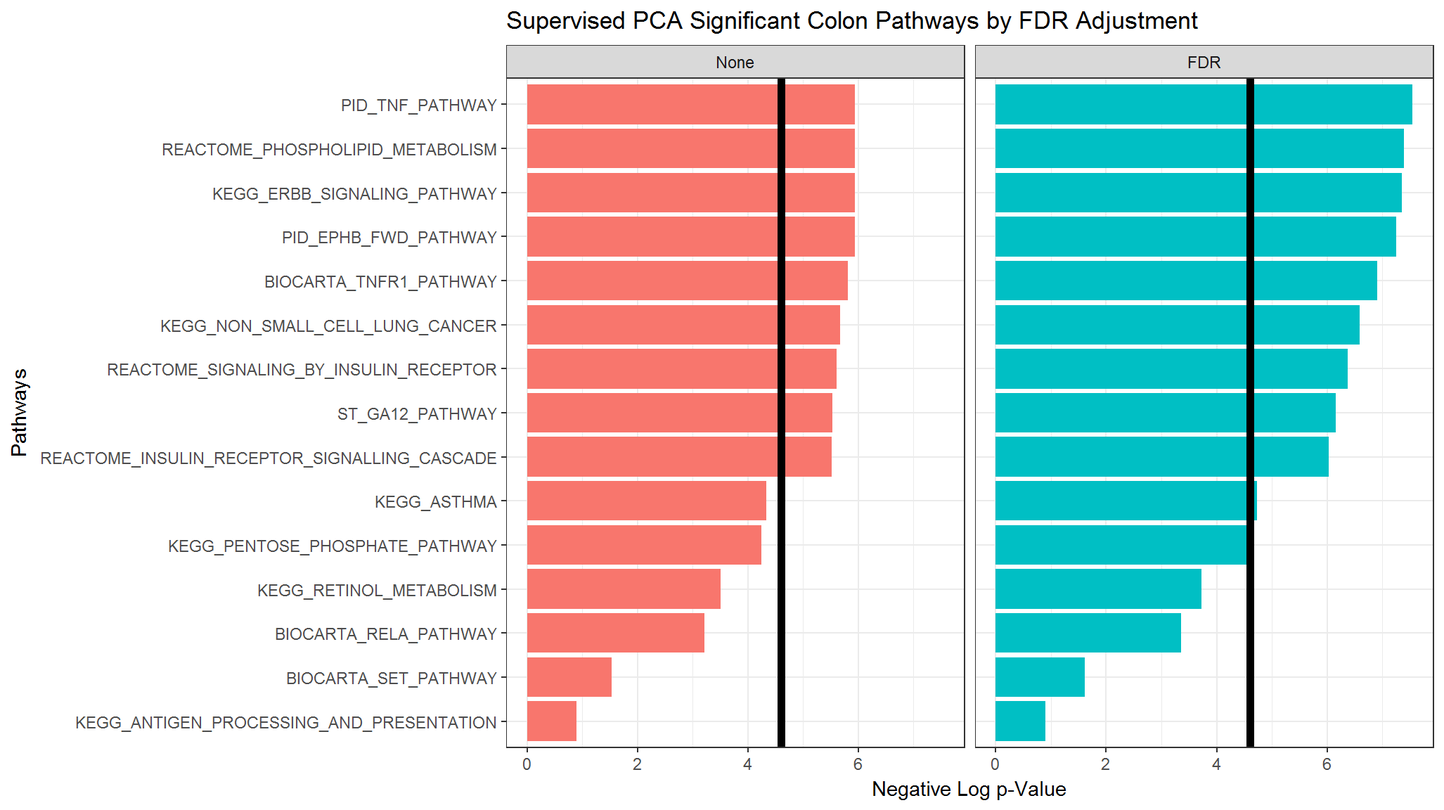
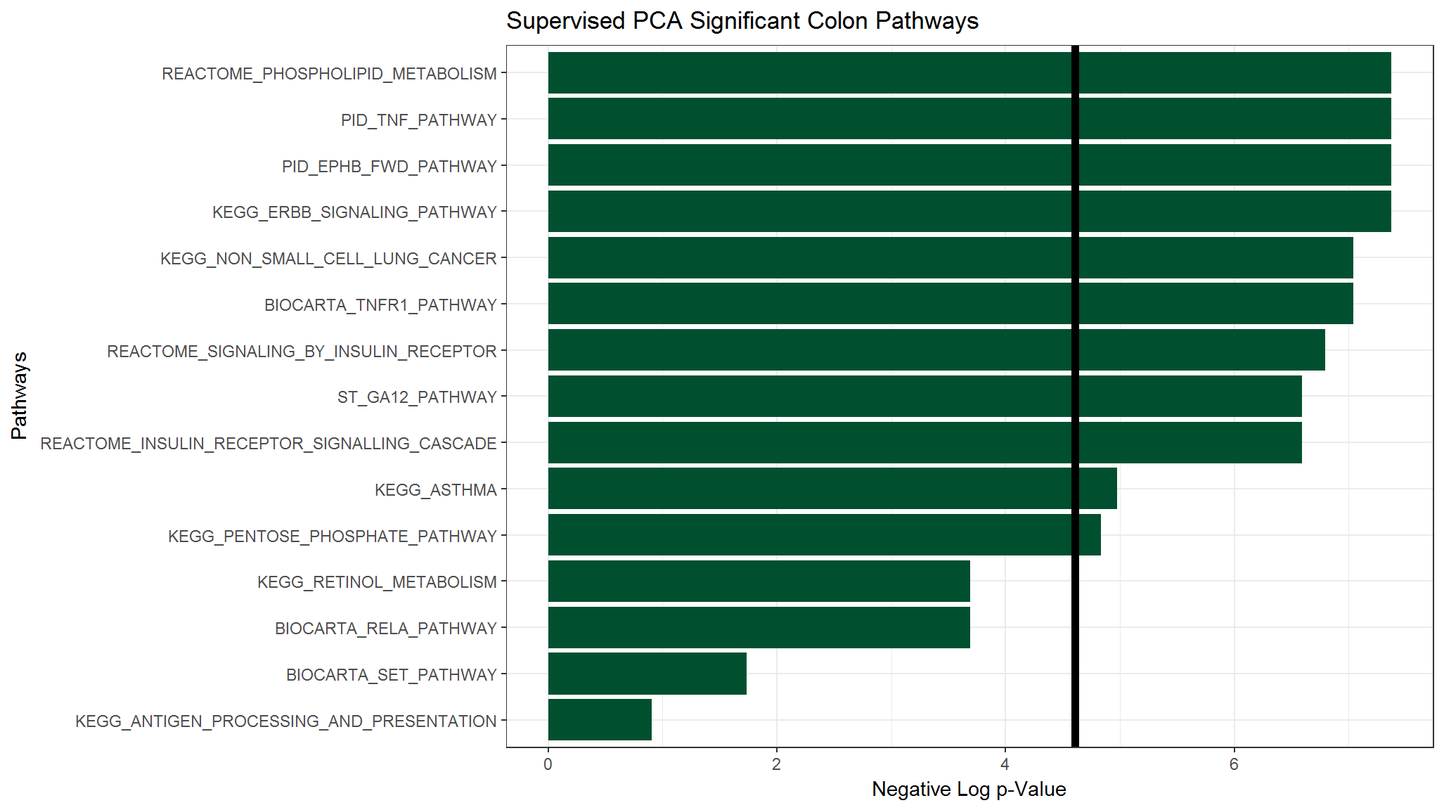
Lily edits to chapter 1.

diff --git a/docs/articles/C1-Quickstart_Guide.html b/docs/articles/C1-Quickstart_Guide.html
@@ -89,7 +89,7 @@
       <h1>Chapter 1 - Quickstart Guide</h1>
                         <h4 class="author">Gabriel Odom</h4>
             
-            <h4 class="date">2018-04-27</h4>
+            <h4 class="date">2018-04-30</h4>
       
       <small>Source: <a href="https://github.com/gabrielodom/pathwayPCA/blob/master/vignettes/C1-Quickstart_Guide.Rmd"><code>vignettes/C1-Quickstart_Guide.Rmd</code></a></small>
       <div class="hidden name"><code>C1-Quickstart_Guide.Rmd</code></div>
@@ -101,7 +101,7 @@
 <div id="overview" class="section level1">
 <h1 class="hasAnchor">
 <a href="#overview" class="anchor"></a>1. Overview</h1>
-<p>This guide will serve as a brief introduction to pathway significance testing with the <code>pathwayPCA</code> package. We will discuss four steps. For detailed discussion of these four steps, see the appropriate vignettes. This vignette is the introduction and overview chapter in the “Pathway Significance Testing with <code>pathwayPCA</code>” workflow.</p>
+<p>This guide will serve as a brief introduction to pathway significance testing with the <code>pathwayPCA</code> package. We will discuss four steps. For detailed discussion of these four steps, see the appropriate vignettes. This vignette provides an introduction and overview for the <code>pathwayPCA</code> package.</p>
 <ol start="0" style="list-style-type: decimal">
 <li>Download Packages</li>
 <li>Import Data (<a href="https://gabrielodom.github.io/pathwayPCA/articles/C2-Importing_Data.html"><em>vignette</em></a>)</li>
@@ -109,7 +109,7 @@
 <li>Test Pathway Significance (<a href="https://gabrielodom.github.io/pathwayPCA/articles/C4-Methods_Walkthrough.html"><em>vignette</em></a>)</li>
 <li>Inspect Results</li>
 </ol>
-<p>Before we get started, you need the <code>pathwayPCA</code> package to run your analysis. Because we are currently in the development phase for Bioconductor, you can install this package from GitHub. In order to install a package from GitHub, you will need the <code>devtools::</code> package (<a href="https://github.com/r-lib/devtools" class="uri">https://github.com/r-lib/devtools</a>) and either <a href="https://cran.r-project.org/bin/windows/Rtools/">Rtools</a> (for Windows) or <a href="https://developer.apple.com/xcode/">Xcode</a> (for Mac). Then you can install the development version of the <a href="https://github.com/gabrielodom/pathwayPCA"><code>pathwayPCA</code> package</a> from <a href="https://github.com/">GitHub</a>:</p>
+<p>Before we get started, you need the <code>pathwayPCA</code> package to run your analysis. Because we are currently in the development phase for this package, you can install the package from GitHub. In order to install a package from GitHub, you will need the <code>devtools::</code> package (<a href="https://github.com/r-lib/devtools" class="uri">https://github.com/r-lib/devtools</a>) and either <a href="https://cran.r-project.org/bin/windows/Rtools/">Rtools</a> (for Windows) or <a href="https://developer.apple.com/xcode/">Xcode</a> (for Mac). Then you can install the development version of the <a href="https://github.com/gabrielodom/pathwayPCA"><code>pathwayPCA</code> package</a> from <a href="https://github.com/">GitHub</a>:</p>
 <pre><code><a href="http://www.rdocumentation.org/packages/devtools/topics/install_github">devtools::install_github("gabrielodom/pathwayPCA")</a></code></pre>
 <p>Also, if you want your analysis to be performed with parallel computing, you will need a package to help you. We recommend the <code>parallel</code> package (it comes with <code>R</code> automatically). We also recommend the <code>tidyverse</code> package to help you run some of the examples in these vignettes (while the <code>tidyverse</code> package suite is required for many of the examples in the vignettes, it is not required for any of the functions in this package).</p>
 <pre><code>install.packages("tidyverse")</code></pre>
@@ -134,7 +134,7 @@
 <div id="import--gmt-files" class="section level2">
 <h2 class="hasAnchor">
 <a href="#import--gmt-files" class="anchor"></a>2.1 Import <code>.gmt</code> Files</h2>
-<p>The <code>.gmt</code> format is a commonly used file format for storing <a href="https://software.broadinstitute.org/cancer/software/gsea/wiki/index.php/Data_formats#GMT:_Gene_Matrix_Transposed_file_format_.28.2A.gmt.29">pathway set information</a>. Gene sets in the Molecular Signatures Database (MSigDB) can be downloaded from the MSigDB Collections page. Use the <code>read_gmt</code> function to import a <code>.gmt</code> file into R. All <code>.gmt</code> files have a “description” field, but it can be empty. We use <code>description = FALSE</code> argument to skip importing that field.</p>
+<p>The <code>.gmt</code> format is a commonly used file format for storing <a href="https://software.broadinstitute.org/cancer/software/gsea/wiki/index.php/Data_formats#GMT:_Gene_Matrix_Transposed_file_format_.28.2A.gmt.29">pathway information</a>. Gene sets in the Molecular Signatures Database (MSigDB) can be downloaded from the <a href="http://software.broadinstitute.org/gsea/msigdb/collections.jsp">MSigDB Collections page</a>, and you can use the <code>read_gmt</code> function to import such a <code>.gmt</code> file into R. All <code>.gmt</code> files have a “description” field, which contains additional information on the pathway. However, this field can be left empty. In this example, we use <code>description = FALSE</code> to skip importing the “description” field.</p>
 <div class="sourceCode"><pre class="sourceCode r"><code class="sourceCode r">gmt_path &lt;-<span class="st"> </span><span class="kw">system.file</span>(<span class="st">"extdata"</span>, <span class="st">"c2.cp.v6.0.symbols.gmt"</span>,
                          <span class="dt">package =</span> <span class="st">"pathwayPCA"</span>, <span class="dt">mustWork =</span> <span class="ot">TRUE</span>)
 gene_set_ls &lt;-<span class="st"> </span><span class="kw"><a href="../reference/read_gmt.html">read_gmt</a></span>(gmt_path, <span class="dt">description =</span> <span class="ot">FALSE</span>)
@@ -144,11 +144,10 @@ gene_set_ls</code></pre></div>
 #&gt;  $ TERMS   : chr [1:1329] "KEGG_GLYCOLYSIS_GLUCONEOGENESIS" ...</code></pre>
 <p>The imported <code>.gmt</code> file is stored as a <code>pathwaySet</code> list object. This list contains:</p>
 <ul>
-<li>a list of the gene names contained in each pathway set (<code>pathways</code>),</li>
+<li>a list of the gene names contained in each pathway (<code>pathways</code>),</li>
 <li>the names of the pathways (<code>TERMS</code>), and</li>
 <li>(<em>OPTIONAL</em>) the hyperlink to the pathway description card on the GSEA website (<code>description</code>) if you specify <code>description = TRUE</code>.</li>
 </ul>
-<p>Specifically, the <code>description</code> field contains any notes or details on the pathway that is stored in the second entry of each row of the <code>.gmt</code> file. This field is often left empty.</p>
 </div>
 <div id="import-and-tidy-assay-data" class="section level2">
 <h2 class="hasAnchor">
@@ -157,7 +156,7 @@ gene_set_ls</code></pre></div>
 <div class="figure">
 <img src="example_assay_data.PNG">
 </div>
-<p>In this data set, the columns are individual samples. The values in each row are the -Omic expression measurements for that gene. Use the <code>read_csv</code> function from the <code>readr</code> package to import <code>.csv</code> files into <code>R</code> as <a href="https://cran.r-project.org/web/packages/tibble/vignettes/tibble.html">tibble</a> (table <em>and</em> data frame) objects. The <code>read_csv</code> function prints messages to the screen informing you of the assumptions it makes when importing your data. Specifically, this message tells us that all the imported data is numeric (<code>col_double()</code>) except for the gene name column (<code>X1 = col_character()</code>).</p>
+<p>In this data set, the columns are individual samples. The values in each row are the gene expression measurements for that gene. Use the <code>read_csv</code> function from the <code>readr</code> package to import <code>.csv</code> files into <code>R</code> as <a href="https://cran.r-project.org/web/packages/tibble/vignettes/tibble.html">tibble</a> (table <em>and</em> data frame) objects. The <code>read_csv</code> function prints messages to the screen informing you of the assumptions it makes when importing your data. Specifically, this message tells us that all the imported data is numeric (<code>col_double()</code>) except for the gene name column (<code>X1 = col_character()</code>).</p>
 <div class="sourceCode"><pre class="sourceCode r"><code class="sourceCode r">assay_path &lt;-<span class="st"> </span><span class="kw">system.file</span>(<span class="st">"extdata"</span>, <span class="st">"ex_assay_subset.csv"</span>,
                           <span class="dt">package =</span> <span class="st">"pathwayPCA"</span>, <span class="dt">mustWork =</span> <span class="ot">TRUE</span>)
 assay_df &lt;-<span class="st"> </span><span class="kw">read_csv</span>(assay_path)</code></pre></div>
@@ -173,7 +172,7 @@ assay_df &lt;-<span class="st"> </span><span class="kw">read_csv</span>(assay_pa
 <li>gene names must start with an English letter (a-z or A-Z), and</li>
 <li>gene names can only contain English letters, Arabic numerals (0-9), and possibly a dash (-).</li>
 </ul>
-<p>Furthermore, if your data has samples in the columns and -omic feature measurements in the rows (like the data set above), you’ll need to “tidy” the imported assay with the <code>transpose_assay</code> function. Now see that the rows from our Excel file are the columns in the tidy data before performing data analysis.</p>
+<p>Furthermore, if your data has samples in the columns and -omic feature measurements in the rows (like the data set above), you’ll need to “tidy” the imported assay with the <code>transpose_assay</code> function. The transposed data set will appear similar to the following:</p>
 <pre><code>#&gt; # A tibble: 36 x 18
 #&gt;    Sample    SOAT1   LSS  SQLE   EBP CYP51A1 DHCR7 CYP27B1 DHCR24 HSD17B7
 #&gt;    &lt;chr&gt;     &lt;dbl&gt; &lt;dbl&gt; &lt;dbl&gt; &lt;dbl&gt;   &lt;dbl&gt; &lt;dbl&gt;   &lt;dbl&gt;  &lt;dbl&gt;   &lt;dbl&gt;
@@ -194,7 +193,7 @@ assay_df &lt;-<span class="st"> </span><span class="kw">read_csv</span>(assay_pa
 <div id="import-phenotype-info" class="section level2">
 <h2 class="hasAnchor">
 <a href="#import-phenotype-info" class="anchor"></a>2.3 Import Phenotype Info</h2>
-<p>Use the <code>read_csv</code> function to import the phenotype data. Once again, the <code>read_csv</code> function displays a message informing us of the types of data in each column. This data is subject survival information which contains the subject ID (<code>Sample</code>), survival time after disease onset in months (<code>eventTime</code>), and an indicator if the subject died or was lost to follow up (<code>eventObserved</code>).</p>
+<p>Use the <code>read_csv</code> function to import the phenotype data. Once again, the <code>read_csv</code> function displays a message informing us of the types of data in each column. The following phenotype dataset for subject survival information contains the subject ID (<code>Sample</code>), survival time after disease onset in months (<code>eventTime</code>), and a variable indicating if the subject died or was lost to follow up (<code>eventObserved</code>).</p>
 <div class="sourceCode"><pre class="sourceCode r"><code class="sourceCode r">pInfo_path &lt;-<span class="st"> </span><span class="kw">system.file</span>(<span class="st">"extdata"</span>, <span class="st">"ex_pInfo_subset.csv"</span>,
                           <span class="dt">package =</span> <span class="st">"pathwayPCA"</span>, <span class="dt">mustWork =</span> <span class="ot">TRUE</span>)
 pInfo_df &lt;-<span class="st"> </span><span class="kw">read_csv</span>(pInfo_path)
@@ -223,7 +222,7 @@ pInfo_df</code></pre></div>
 <div id="match-the-phenotype-and-assay-data" class="section level2">
 <h2 class="hasAnchor">
 <a href="#match-the-phenotype-and-assay-data" class="anchor"></a>2.4 Match the Phenotype and Assay Data</h2>
-<p>Now that you have the measurement data in tidy form (<code>assayT_df</code>) and the response data (<code>pInfo_df</code>), you can use the <code>inner_join</code> function from the <code>dplyr</code> package to match the assay measurements to phenotype information by subject identifier.</p>
+<p>Now that you have the assay data in tidy form (<code>assayT_df</code>) and the phenotype data (<code>pInfo_df</code>), you can use the <code>inner_join</code> function from the <code>dplyr</code> package to match the assay measurements to phenotype information by subject identifier.</p>
 <div class="sourceCode"><pre class="sourceCode r"><code class="sourceCode r">(joinedExperiment_df &lt;-<span class="st"> </span><span class="kw">inner_join</span>(pInfo_df, assayT_df, <span class="dt">by =</span> <span class="st">"Sample"</span>))
 <span class="co">#&gt; # A tibble: 36 x 20</span>
 <span class="co">#&gt;    Sample    eventTime eventObserved SOAT1   LSS  SQLE   EBP CYP51A1 DHCR7</span>
@@ -252,16 +251,11 @@ pInfo_df</code></pre></div>
 <div id="create-an-object" class="section level2">
 <h2 class="hasAnchor">
 <a href="#create-an-object" class="anchor"></a>3.1 Create an Object</h2>
-<p>Using the data you just imported, create a data object specific to survival, regression, or categorical responses. There are three classes of <code>Omics</code> objects to match the three types of response, but only one function to learn: the <code>create_Omics</code> function. Each class contains assay information (in tidy format) and <code>pathwaySet</code> (in list format), but the classes differ in the type of response information they can hold. The classes, and their responses, are</p>
-<ol style="list-style-type: decimal">
-<li>
-<code>OmicsSurv</code>—a data object for survival information, which includes event time (the time of last follow-up with a subject) and event indicator (did the subject die, or was the observation right-censored).</li>
-<li>
-<code>OmicsReg</code>—a data object for continuous responses (usually a vector of linear regression responses).</li>
-<li>
-<code>OmicsCateg</code>—a data object for categorical responses, the dependent variable of a generalized linear model. Currently, we only support binary classification (through logistic regression).</li>
-</ol>
-<p>We will create a survival <code>Omics</code> object to hold our assay, pathway set list, and survival response.</p>
+<p>Using the data you just imported, create a data object specific to survival, regression, or categorical responses. For our example dataset, we will create a survival <code>Omics</code> object to hold our assay, pathway set list, and survival responses.</p>
+<!-- There are three classes of `Omics` objects to match the three types of response, but only one function to learn: the `create_Omics` function. Each class contains assay information (in tidy format) and `pathwaySet` (in list format), but the classes differ in the type of response information they can hold. The classes, and their responses, are -->
+<!-- 1. `OmicsSurv`---a data object for survival information, which includes event time (the time of last follow-up with a subject) and event indicator (did the subject die, or was the observation right-censored). -->
+<!-- 2. `OmicsReg`---a data object for continuous responses (usually a vector of linear regression responses). -->
+<!-- 3. `OmicsCateg`---a data object for categorical responses, the dependent variable of a generalized linear model. Currently, we only support binary classification (through logistic regression). -->
 <div class="sourceCode"><pre class="sourceCode r"><code class="sourceCode r">colon_OmicsSurv &lt;-<span class="st"> </span><span class="kw"><a href="../reference/create_Omics.html">create_Omics</a></span>(<span class="dt">assayData_df =</span> colonSurv_df[, <span class="op">-</span>(<span class="dv">1</span><span class="op">:</span><span class="dv">2</span>)],
                                 <span class="dt">pathwaySet_ls =</span> colon_pathwaySet,
                                 <span class="dt">response =</span> colonSurv_df[, <span class="dv">1</span><span class="op">:</span><span class="dv">2</span>],
@@ -358,7 +352,7 @@ pInfo_df</code></pre></div>
 <div id="aes-pca" class="section level2">
 <h2 class="hasAnchor">
 <a href="#aes-pca" class="anchor"></a>4.1 AES-PCA</h2>
-<p>Perform AES-PCA pathway significance testing on the <code>Omics</code> object with the <code>AESPCA_pVals</code> function. For more details on this function, see the <a href="https://gabrielodom.github.io/pathwayPCA/articles/C4-Methods_Walkthrough.html#aes-pca">AES-PCA</a> section of Chapter 4.</p>
+<p>Perform AES-PCA pathway significance testing on the <code>Omics</code> object with the <code>AESPCA_pVals</code> function. For more details on this function, see the <a href="https://gabrielodom.github.io/pathwayPCA/articles/C4-Methods_Walkthrough.html#aes-pca">AES-PCA</a> section of Chapter 4. We will adjust the pathway <span class="math inline">\(p\)</span>-values by the estimated FDR calculated with the <code>"BH"</code> procedure (Benjamini and Hochberg, 1995).</p>
 <div class="sourceCode"><pre class="sourceCode r"><code class="sourceCode r">surv_aes_pVals_df &lt;-<span class="st"> </span><span class="kw"><a href="../reference/AESPCA_pVals.html">AESPCA_pVals</a></span>(<span class="dt">object =</span> colon_OmicsSurv,
                                   <span class="dt">numReps =</span> <span class="dv">1000</span>,
                                   <span class="dt">numPCs =</span> <span class="dv">2</span>,
@@ -396,7 +390,7 @@ pInfo_df</code></pre></div>
                                     <span class="dt">parallel =</span> <span class="ot">TRUE</span>,
                                     <span class="dt">numCores =</span> <span class="dv">2</span>,
                                     <span class="dt">adjustpValues =</span> <span class="ot">TRUE</span>,
-                                    <span class="dt">adjustment =</span> <span class="st">"BH"</span>)
+                                    <span class="dt">adjustment =</span> <span class="kw">c</span>(<span class="st">"BH"</span>))
 <span class="co">#&gt; Of the 676 unique genes in the input pathway set, 9.0% were not expressed in</span>
 <span class="co">#&gt;   the input data and were therefore removed.</span>
 <span class="co">#&gt; After trimming unexpressed genes from the 15 supplied pathways, we removed 0</span>
@@ -426,32 +420,32 @@ pInfo_df</code></pre></div>
 <p>For a quick and easy view of the pathway significance testing results, we can simply print the output data frame. If you are not using the <code>tidyverse</code> package suite, your results will print differently (use the <code>head</code> function to print the top pathways instead).</p>
 <div class="sourceCode"><pre class="sourceCode r"><code class="sourceCode r">surv_spr_pVals_df
 <span class="co">#&gt; # A tibble: 15 x 6</span>
-<span class="co">#&gt;    pathways    setsize trim_size terms                        rawp      BH</span>
+<span class="co">#&gt;    pathways    setsize trim_size terms                        rawp  FDR_BH</span>
 <span class="co">#&gt;  * &lt;chr&gt;         &lt;int&gt;     &lt;int&gt; &lt;chr&gt;                       &lt;dbl&gt;   &lt;dbl&gt;</span>
-<span class="co">#&gt;  1 pathway536       46        44 PID_TNF_PATHWAY           5.27e-4 0.00264</span>
-<span class="co">#&gt;  2 pathway781      198       180 REACTOME_PHOSPHOLIPID_ME~ 6.14e-4 0.00264</span>
-<span class="co">#&gt;  3 pathway87        87        86 KEGG_ERBB_SIGNALING_PATH~ 6.42e-4 0.00264</span>
-<span class="co">#&gt;  4 pathway491       40        40 PID_EPHB_FWD_PATHWAY      7.05e-4 0.00264</span>
-<span class="co">#&gt;  5 pathway390       29        29 BIOCARTA_TNFR1_PATHWAY    1.00e-3 0.00301</span>
-<span class="co">#&gt;  6 pathway176       54        54 KEGG_NON_SMALL_CELL_LUNG~ 1.38e-3 0.00344</span>
-<span class="co">#&gt;  7 pathway1211     108       104 REACTOME_SIGNALING_BY_IN~ 1.71e-3 0.00366</span>
-<span class="co">#&gt;  8 pathway413       23        23 ST_GA12_PATHWAY           2.11e-3 0.00395</span>
-<span class="co">#&gt;  9 pathway757       87        83 REACTOME_INSULIN_RECEPTO~ 2.40e-3 0.00400</span>
-<span class="co">#&gt; 10 pathway177       30        26 KEGG_ASTHMA               8.77e-3 0.0132 </span>
-<span class="co">#&gt; 11 pathway3         27        26 KEGG_PENTOSE_PHOSPHATE_P~ 1.05e-2 0.0143 </span>
-<span class="co">#&gt; 12 pathway60        64        45 KEGG_RETINOL_METABOLISM   2.40e-2 0.0300 </span>
-<span class="co">#&gt; 13 pathway187       16        16 BIOCARTA_RELA_PATHWAY     3.50e-2 0.0404 </span>
-<span class="co">#&gt; 14 pathway266       11        11 BIOCARTA_SET_PATHWAY      2.00e-1 0.215  </span>
-<span class="co">#&gt; 15 pathway120       89        73 KEGG_ANTIGEN_PROCESSING_~ 4.07e-1 0.407</span></code></pre></div>
+<span class="co">#&gt;  1 pathway87        87        86 KEGG_ERBB_SIGNALING_PATH~ 1.25e-4 6.29e-4</span>
+<span class="co">#&gt;  2 pathway491       40        40 PID_EPHB_FWD_PATHWAY      1.29e-4 6.29e-4</span>
+<span class="co">#&gt;  3 pathway536       46        44 PID_TNF_PATHWAY           1.43e-4 6.29e-4</span>
+<span class="co">#&gt;  4 pathway781      198       180 REACTOME_PHOSPHOLIPID_ME~ 1.68e-4 6.29e-4</span>
+<span class="co">#&gt;  5 pathway390       29        29 BIOCARTA_TNFR1_PATHWAY    3.05e-4 8.74e-4</span>
+<span class="co">#&gt;  6 pathway176       54        54 KEGG_NON_SMALL_CELL_LUNG~ 3.50e-4 8.74e-4</span>
+<span class="co">#&gt;  7 pathway1211     108       104 REACTOME_SIGNALING_BY_IN~ 5.21e-4 1.12e-3</span>
+<span class="co">#&gt;  8 pathway413       23        23 ST_GA12_PATHWAY           7.31e-4 1.37e-3</span>
+<span class="co">#&gt;  9 pathway757       87        83 REACTOME_INSULIN_RECEPTO~ 8.25e-4 1.37e-3</span>
+<span class="co">#&gt; 10 pathway177       30        26 KEGG_ASTHMA               4.60e-3 6.90e-3</span>
+<span class="co">#&gt; 11 pathway3         27        26 KEGG_PENTOSE_PHOSPHATE_P~ 5.85e-3 7.98e-3</span>
+<span class="co">#&gt; 12 pathway187       16        16 BIOCARTA_RELA_PATHWAY     2.01e-2 2.50e-2</span>
+<span class="co">#&gt; 13 pathway60        64        45 KEGG_RETINOL_METABOLISM   2.17e-2 2.50e-2</span>
+<span class="co">#&gt; 14 pathway266       11        11 BIOCARTA_SET_PATHWAY      1.65e-1 1.77e-1</span>
+<span class="co">#&gt; 15 pathway120       89        73 KEGG_ANTIGEN_PROCESSING_~ 4.04e-1 4.04e-1</span></code></pre></div>
 </div>
 <div id="graph-of-top-pathways" class="section level2">
 <h2 class="hasAnchor">
 <a href="#graph-of-top-pathways" class="anchor"></a>5.2 Graph of Top Pathways</h2>
-<p>To visualize the significance of the pathways based on the selected FDR method, we can use the <code>ggplot2</code> package to create summary graphics of the analysis results.</p>
+<p>To visualize the significance of the pathways based on FDR or uncorrected <span class="math inline">\(p\)</span>-values, we can use the <a href="http://ggplot2.org/"><code>ggplot2</code> package</a> to create summary graphics of the analysis results.</p>
 <div id="tidy-up-the-data" class="section level3">
 <h3 class="hasAnchor">
 <a href="#tidy-up-the-data" class="anchor"></a>5.2.1 Tidy Up the Data</h3>
-<p>In order to take advantage of the publication-quality graphics created with the <code>ggplot2</code> package, we first need to tidy the data frames returned by the <code>AESPCA_pVals</code> and <code>superPCA_pVals</code> functions. This code takes in the <span class="math inline">\(p\)</span>-values data frame from the Supervised PCA method and modifies it to be compatible with <code>ggplot</code>.</p>
+<p>In order to take advantage of the publication-quality graphics created with the <code>ggplot2</code> package, we first need to tidy the data frames returned by the <code>AESPCA_pVals</code> and <code>superPCA_pVals</code> functions. The following code takes in the <span class="math inline">\(p\)</span>-values data frame (<code>surv_spr_pVals_df</code>) from the Supervised PCA method, modifies it to be compatible with the <code>ggplot</code> function, and saves the new data frame (<code>surv_spr_gather_df</code>).</p>
 <div class="sourceCode"><pre class="sourceCode r"><code class="sourceCode r">surv_spr_gather_df &lt;-<span class="st"> </span>surv_spr_pVals_df <span class="op">%&gt;%</span>
 <span class="st">  </span><span class="kw">select</span>(<span class="op">-</span>pathways, <span class="op">-</span><span class="st"> </span>setsize, <span class="op">-</span>trim_size) <span class="op">%&gt;%</span>
 <span class="st">  </span><span class="kw">gather</span>(variable, value, <span class="op">-</span>terms) <span class="op">%&gt;%</span>
@@ -462,34 +456,61 @@ surv_spr_gather_df
 <span class="co">#&gt; # A tibble: 30 x 4</span>
 <span class="co">#&gt;    terms                                        variable    value score</span>
 <span class="co">#&gt;    &lt;chr&gt;                                        &lt;fct&gt;       &lt;dbl&gt; &lt;dbl&gt;</span>
-<span class="co">#&gt;  1 PID_TNF_PATHWAY                              FDR      0.000527  7.55</span>
-<span class="co">#&gt;  2 REACTOME_PHOSPHOLIPID_METABOLISM             FDR      0.000614  7.40</span>
-<span class="co">#&gt;  3 KEGG_ERBB_SIGNALING_PATHWAY                  FDR      0.000642  7.35</span>
-<span class="co">#&gt;  4 PID_EPHB_FWD_PATHWAY                         FDR      0.000705  7.26</span>
-<span class="co">#&gt;  5 BIOCARTA_TNFR1_PATHWAY                       FDR      0.00100   6.91</span>
-<span class="co">#&gt;  6 KEGG_NON_SMALL_CELL_LUNG_CANCER              FDR      0.00138   6.59</span>
-<span class="co">#&gt;  7 REACTOME_SIGNALING_BY_INSULIN_RECEPTOR       FDR      0.00171   6.37</span>
-<span class="co">#&gt;  8 ST_GA12_PATHWAY                              FDR      0.00211   6.16</span>
-<span class="co">#&gt;  9 REACTOME_INSULIN_RECEPTOR_SIGNALLING_CASCADE FDR      0.00240   6.03</span>
-<span class="co">#&gt; 10 KEGG_ASTHMA                                  FDR      0.00877   4.74</span>
+<span class="co">#&gt;  1 KEGG_ERBB_SIGNALING_PATHWAY                  FDR      0.000125  8.99</span>
+<span class="co">#&gt;  2 PID_EPHB_FWD_PATHWAY                         FDR      0.000129  8.96</span>
+<span class="co">#&gt;  3 PID_TNF_PATHWAY                              FDR      0.000143  8.85</span>
+<span class="co">#&gt;  4 REACTOME_PHOSPHOLIPID_METABOLISM             FDR      0.000168  8.69</span>
+<span class="co">#&gt;  5 BIOCARTA_TNFR1_PATHWAY                       FDR      0.000305  8.09</span>
+<span class="co">#&gt;  6 KEGG_NON_SMALL_CELL_LUNG_CANCER              FDR      0.000350  7.96</span>
+<span class="co">#&gt;  7 REACTOME_SIGNALING_BY_INSULIN_RECEPTOR       FDR      0.000521  7.56</span>
+<span class="co">#&gt;  8 ST_GA12_PATHWAY                              FDR      0.000731  7.22</span>
+<span class="co">#&gt;  9 REACTOME_INSULIN_RECEPTOR_SIGNALLING_CASCADE FDR      0.000825  7.10</span>
+<span class="co">#&gt; 10 KEGG_ASTHMA                                  FDR      0.00460   5.38</span>
 <span class="co">#&gt; # ... with 20 more rows</span></code></pre></div>
 </div>
 <div id="graph-pathway-ranks" class="section level3">
 <h3 class="hasAnchor">
 <a href="#graph-pathway-ranks" class="anchor"></a>5.2.2 Graph Pathway Ranks</h3>
-<p>Now that our output is tidy, we can make a bar chart of the pathway significance. First, we consider the raw <span class="math inline">\(p\)</span>-value</p>
-<div class="sourceCode"><pre class="sourceCode r"><code class="sourceCode r"><span class="kw">ggplot</span>(surv_spr_gather_df) <span class="op">+</span>
+<p>Now that our output is tidy, we can make a bar chart of the pathway significance. First, we consider the FDR-values.</p>
+<div class="sourceCode"><pre class="sourceCode r"><code class="sourceCode r">fdr_df &lt;-<span class="st"> </span>surv_spr_gather_df <span class="op">%&gt;%</span><span class="st"> </span>
+<span class="st">  </span><span class="kw">filter</span>(variable <span class="op">==</span><span class="st"> "FDR"</span>) <span class="op">%&gt;%</span><span class="st"> </span>
+<span class="st">  </span><span class="kw">select</span>(<span class="op">-</span>variable, <span class="op">-</span>value)
+
+<span class="kw">ggplot</span>(fdr_df) <span class="op">+</span>
 <span class="st">  </span><span class="kw">theme_bw</span>() <span class="op">+</span>
 <span class="st">  </span><span class="kw">aes</span>(<span class="dt">x =</span> <span class="kw">reorder</span>(terms, score), <span class="dt">y =</span> score) <span class="op">+</span>
-<span class="st">  </span><span class="kw">geom_bar</span>(<span class="dt">stat =</span> <span class="st">"identity"</span>, <span class="dt">position =</span> <span class="st">"dodge"</span>, <span class="kw">aes</span>(<span class="dt">fill =</span> variable)) <span class="op">+</span>
+<span class="st">  </span><span class="kw">geom_bar</span>(<span class="dt">stat =</span> <span class="st">"identity"</span>, <span class="dt">position =</span> <span class="st">"dodge"</span>, <span class="dt">fill =</span> <span class="st">"#f47321"</span>) <span class="op">+</span>
 <span class="st">  </span><span class="kw">scale_fill_discrete</span>(<span class="dt">guide =</span> <span class="ot">FALSE</span>) <span class="op">+</span>
-<span class="st">  </span><span class="kw">ggtitle</span>(<span class="st">"Supervised PCA Significant Colon Pathways by FDR Adjustment"</span>) <span class="op">+</span>
+<span class="st">  </span><span class="kw">ggtitle</span>(<span class="st">"Supervised PCA FDR-Significant Colon Pathways"</span>) <span class="op">+</span>
+<span class="st">  </span><span class="kw">xlab</span>(<span class="st">"Pathways"</span>) <span class="op">+</span>
+<span class="st">  </span><span class="kw">ylab</span>(<span class="st">"Negative Log FDR"</span>) <span class="op">+</span>
+<span class="st">  </span><span class="kw">geom_hline</span>(<span class="dt">yintercept =</span> <span class="op">-</span><span class="kw">log</span>(<span class="fl">0.01</span>), <span class="dt">size =</span> <span class="dv">2</span>) <span class="op">+</span>
+<span class="st">  </span><span class="kw">coord_flip</span>()</code></pre></div>
+<p><img src="C1-Quickstart_Guide_files/figure-html/surv_spr_FDR_plot-1.png" width="100%" height="60%"></p>
+<p>Now, we consider the unadjusted <span class="math inline">\(p\)</span>-values.</p>
+<div class="sourceCode"><pre class="sourceCode r"><code class="sourceCode r">raw_df &lt;-<span class="st"> </span>surv_spr_gather_df <span class="op">%&gt;%</span><span class="st"> </span>
+<span class="st">  </span><span class="kw">filter</span>(variable <span class="op">==</span><span class="st"> "None"</span>) <span class="op">%&gt;%</span><span class="st"> </span>
+<span class="st">  </span><span class="kw">select</span>(<span class="op">-</span>variable, <span class="op">-</span>value)
+
+<span class="kw">ggplot</span>(raw_df) <span class="op">+</span>
+<span class="st">  </span><span class="kw">theme_bw</span>() <span class="op">+</span>
+<span class="st">  </span><span class="kw">aes</span>(<span class="dt">x =</span> <span class="kw">reorder</span>(terms, score), <span class="dt">y =</span> score) <span class="op">+</span>
+<span class="st">  </span><span class="kw">geom_bar</span>(<span class="dt">stat =</span> <span class="st">"identity"</span>, <span class="dt">position =</span> <span class="st">"dodge"</span>, <span class="dt">fill =</span> <span class="st">"#005030"</span>) <span class="op">+</span>
+<span class="st">  </span><span class="kw">scale_fill_discrete</span>(<span class="dt">guide =</span> <span class="ot">FALSE</span>) <span class="op">+</span>
+<span class="st">  </span><span class="kw">ggtitle</span>(<span class="st">"Supervised PCA Significant Colon Pathways"</span>) <span class="op">+</span>
 <span class="st">  </span><span class="kw">xlab</span>(<span class="st">"Pathways"</span>) <span class="op">+</span>
 <span class="st">  </span><span class="kw">ylab</span>(<span class="st">"Negative Log p-Value"</span>) <span class="op">+</span>
 <span class="st">  </span><span class="kw">geom_hline</span>(<span class="dt">yintercept =</span> <span class="op">-</span><span class="kw">log</span>(<span class="fl">0.01</span>), <span class="dt">size =</span> <span class="dv">2</span>) <span class="op">+</span>
-<span class="st">  </span><span class="kw">coord_flip</span>() <span class="op">+</span><span class="st"> </span>
-<span class="st">  </span><span class="kw">facet_grid</span>(. <span class="op">~</span><span class="st"> </span>variable)</code></pre></div>
-<p><img src="C1-Quickstart_Guide_files/figure-html/surv_spr_pval_plot-1.png" width="100%" height="60%"><!-- library(reshape2) --><!-- surv_spr_melt_df <- surv_spr_pVals_df %>% --><!--   select(-pathways, - setsize, -trim_size) %>% --><!--   melt(id.vars = "terms") %>% --><!--   mutate(score = -log(value)) %>% --><!--   # mutate(terms = str_wrap(terms, width = 20)) %>%  --><!--   mutate(variable = factor(variable, labels = c("FDR", "None"))) %>%  --><!--   as.tibble() --></p>
+<span class="st">  </span><span class="kw">coord_flip</span>()</code></pre></div>
+<p><img src="C1-Quickstart_Guide_files/figure-html/surv_spr_pval_plot-1.png" width="100%" height="60%"></p>
+<!-- library(reshape2) -->
+<!-- surv_spr_melt_df <- surv_spr_pVals_df %>% -->
+<!--   select(-pathways, - setsize, -trim_size) %>% -->
+<!--   melt(id.vars = "terms") %>% -->
+<!--   mutate(score = -log(value)) %>% -->
+<!--   # mutate(terms = str_wrap(terms, width = 20)) %>%  -->
+<!--   mutate(variable = factor(variable, labels = c("FDR", "None"))) %>%  -->
+<!--   as.tibble() -->
 <!-- ## Extract Genes from the Top Pathways -->
 <!-- Use the `topGenes` function to "score" the genes contained in the top significant pathways. Given that we have so far only considered collections of genes, rather than the genes themselves, we can inspect which genes show up the most often in the top-ranked pathways. -->
 <!-- ```{r topSurvGenes} -->
@@ -507,6 +528,17 @@ surv_spr_gather_df
 <!--   geom_hline(yintercept = -log(0.01), size = 2) + -->
 <!--   geom_hline(yintercept = -log(0.05)) + -->
 <!--   coord_flip() -->
+<!-- ggplot(surv_spr_gather_df) + -->
+<!--   theme_bw() + -->
+<!--   aes(x = reorder(terms, score), y = score) + -->
+<!--   geom_bar(stat = "identity", position = "dodge", aes(fill = variable)) + -->
+<!--   scale_fill_discrete(guide = FALSE) + -->
+<!--   ggtitle("Supervised PCA Significant Colon Pathways by FDR Adjustment") + -->
+<!--   xlab("Pathways") + -->
+<!--   ylab("Negative Log p-Value") + -->
+<!--   geom_hline(yintercept = -log(0.01), size = 2) + -->
+<!--   coord_flip() +  -->
+<!--   facet_grid(. ~ variable) -->
 <hr>
 <p></p>
 </div>
